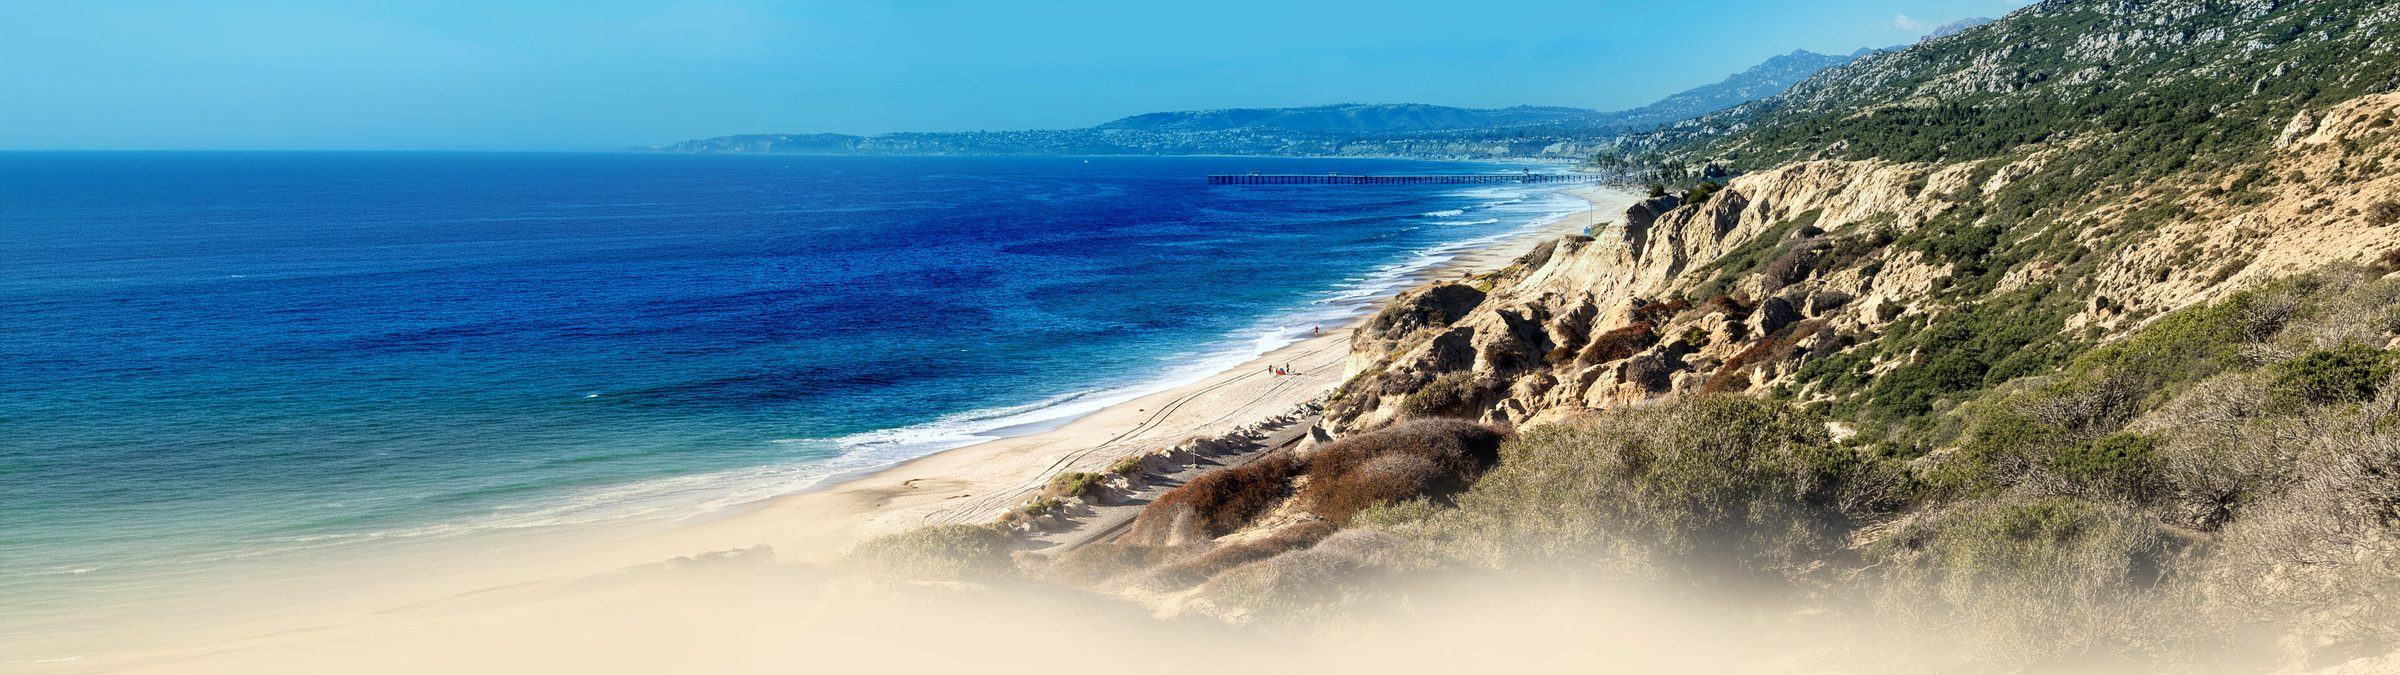
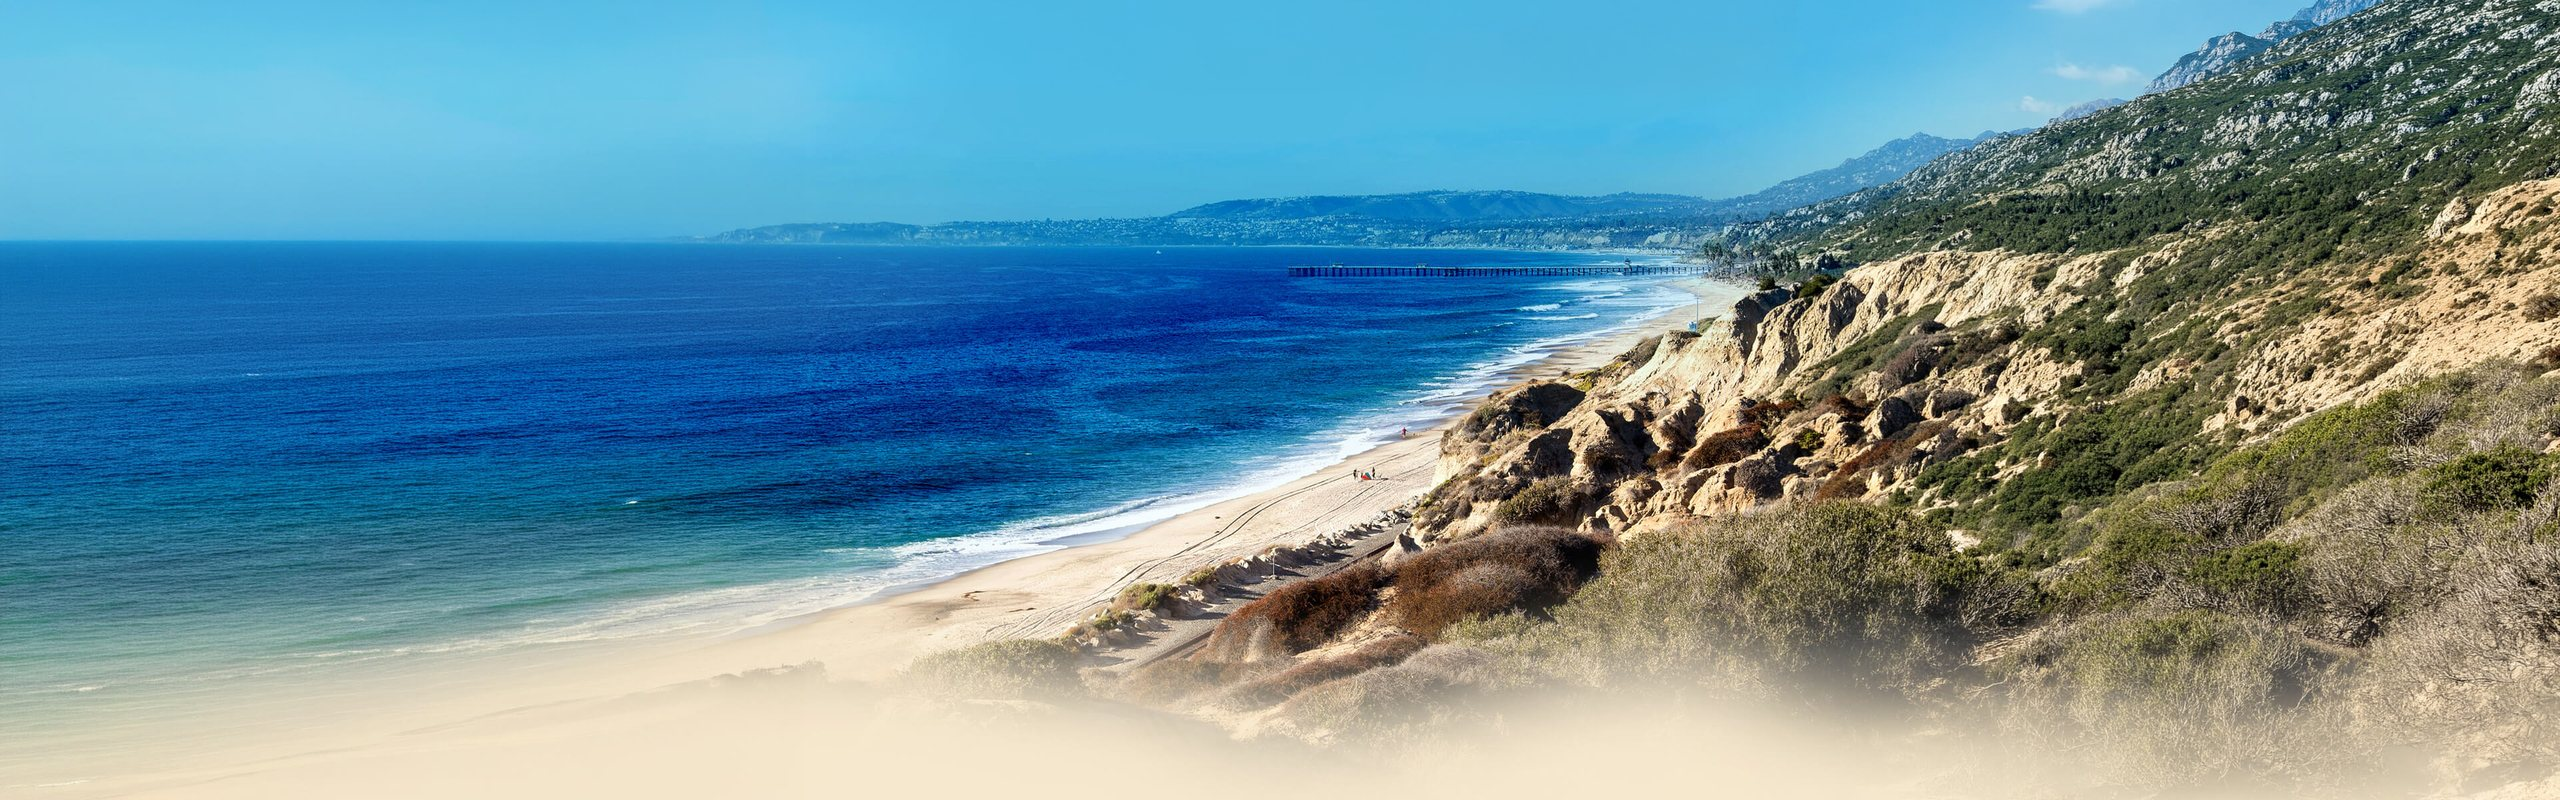
image update

diff --git a/src/components/Hero.tsx b/src/components/Hero.tsx
@@ -4,29 +4,36 @@ import heroImage from '../assets/images/hero-marquee.jpg';
 export default function Hero() {
   return (
     <section className="relative" style={{ background: 'var(--surface-background)' }}>
-      <div className="relative overflow-hidden">
+      {/*
+        Grid "stack": the image and the nav/content overlay share the same cell, so the
+        row's height is the larger of the two — the photo's own aspect ratio (never
+        cropped or repositioned) versus whatever room the nav + headline actually need.
+        On tall/narrow screens where the content needs more room than the photo's
+        native ratio provides, the section simply grows and the extra space is the
+        page background color (which the photo already fades into), so nothing looks cut.
+      */}
+      <div className="grid w-full">
         <img
           src={heroImage}
           alt="Aerial view of the San Clemente coastline and pier"
-          className="absolute inset-0 size-full object-cover"
+          className="col-start-1 row-start-1 self-start w-full aspect-[16/5] object-cover"
           style={{
-            objectPosition: 'center 30%',
-            // Fades the photo to transparent toward the bottom of this (now content-hugging)
-            // section so it dissolves into the page background instead of a hard edge.
-            maskImage: 'linear-gradient(to bottom, black 0%, black 65%, transparent 100%)',
-            WebkitMaskImage: 'linear-gradient(to bottom, black 0%, black 65%, transparent 100%)',
+            // No objectPosition offset — the image's full frame is shown at its native
+            // aspect ratio, so nothing is cropped or shifted.
+            maskImage: 'linear-gradient(to bottom, black 0%, black 70%, transparent 100%)',
+            WebkitMaskImage: 'linear-gradient(to bottom, black 0%, black 70%, transparent 100%)',
           }}
         />
         {/* light scrim behind the nav only, so it stays legible over bright sky/water */}
         <div
-          className="absolute inset-x-0 top-0 h-40 pointer-events-none"
-          style={{ background: 'linear-gradient(180deg, rgba(3,8,14,0.45) 0%, rgba(3,8,14,0) 100%)' }}
+          className="col-start-1 row-start-1 self-start w-full aspect-[16/5] pointer-events-none"
+          style={{ background: 'linear-gradient(180deg, rgba(3,8,14,0.45) 0%, rgba(3,8,14,0) 45%)' }}
         />
 
-        <div className="relative flex flex-col">
+        <div className="col-start-1 row-start-1 relative flex flex-col">
           <MainNav />
 
-          <div className="max-w-[1200px] w-full mx-auto px-6 mt-6 sm:mt-10 lg:mt-20 xl:mt-24 pb-0">
+          <div className="max-w-[1200px] w-full mx-auto px-6 mt-6 sm:mt-10 lg:mt-20 xl:mt-24">
             <h1 className="heading-h2 sm:heading-h1 lg:heading-display text-white drop-shadow-sm max-w-2xl">
               The Spanish Village
               <br />
